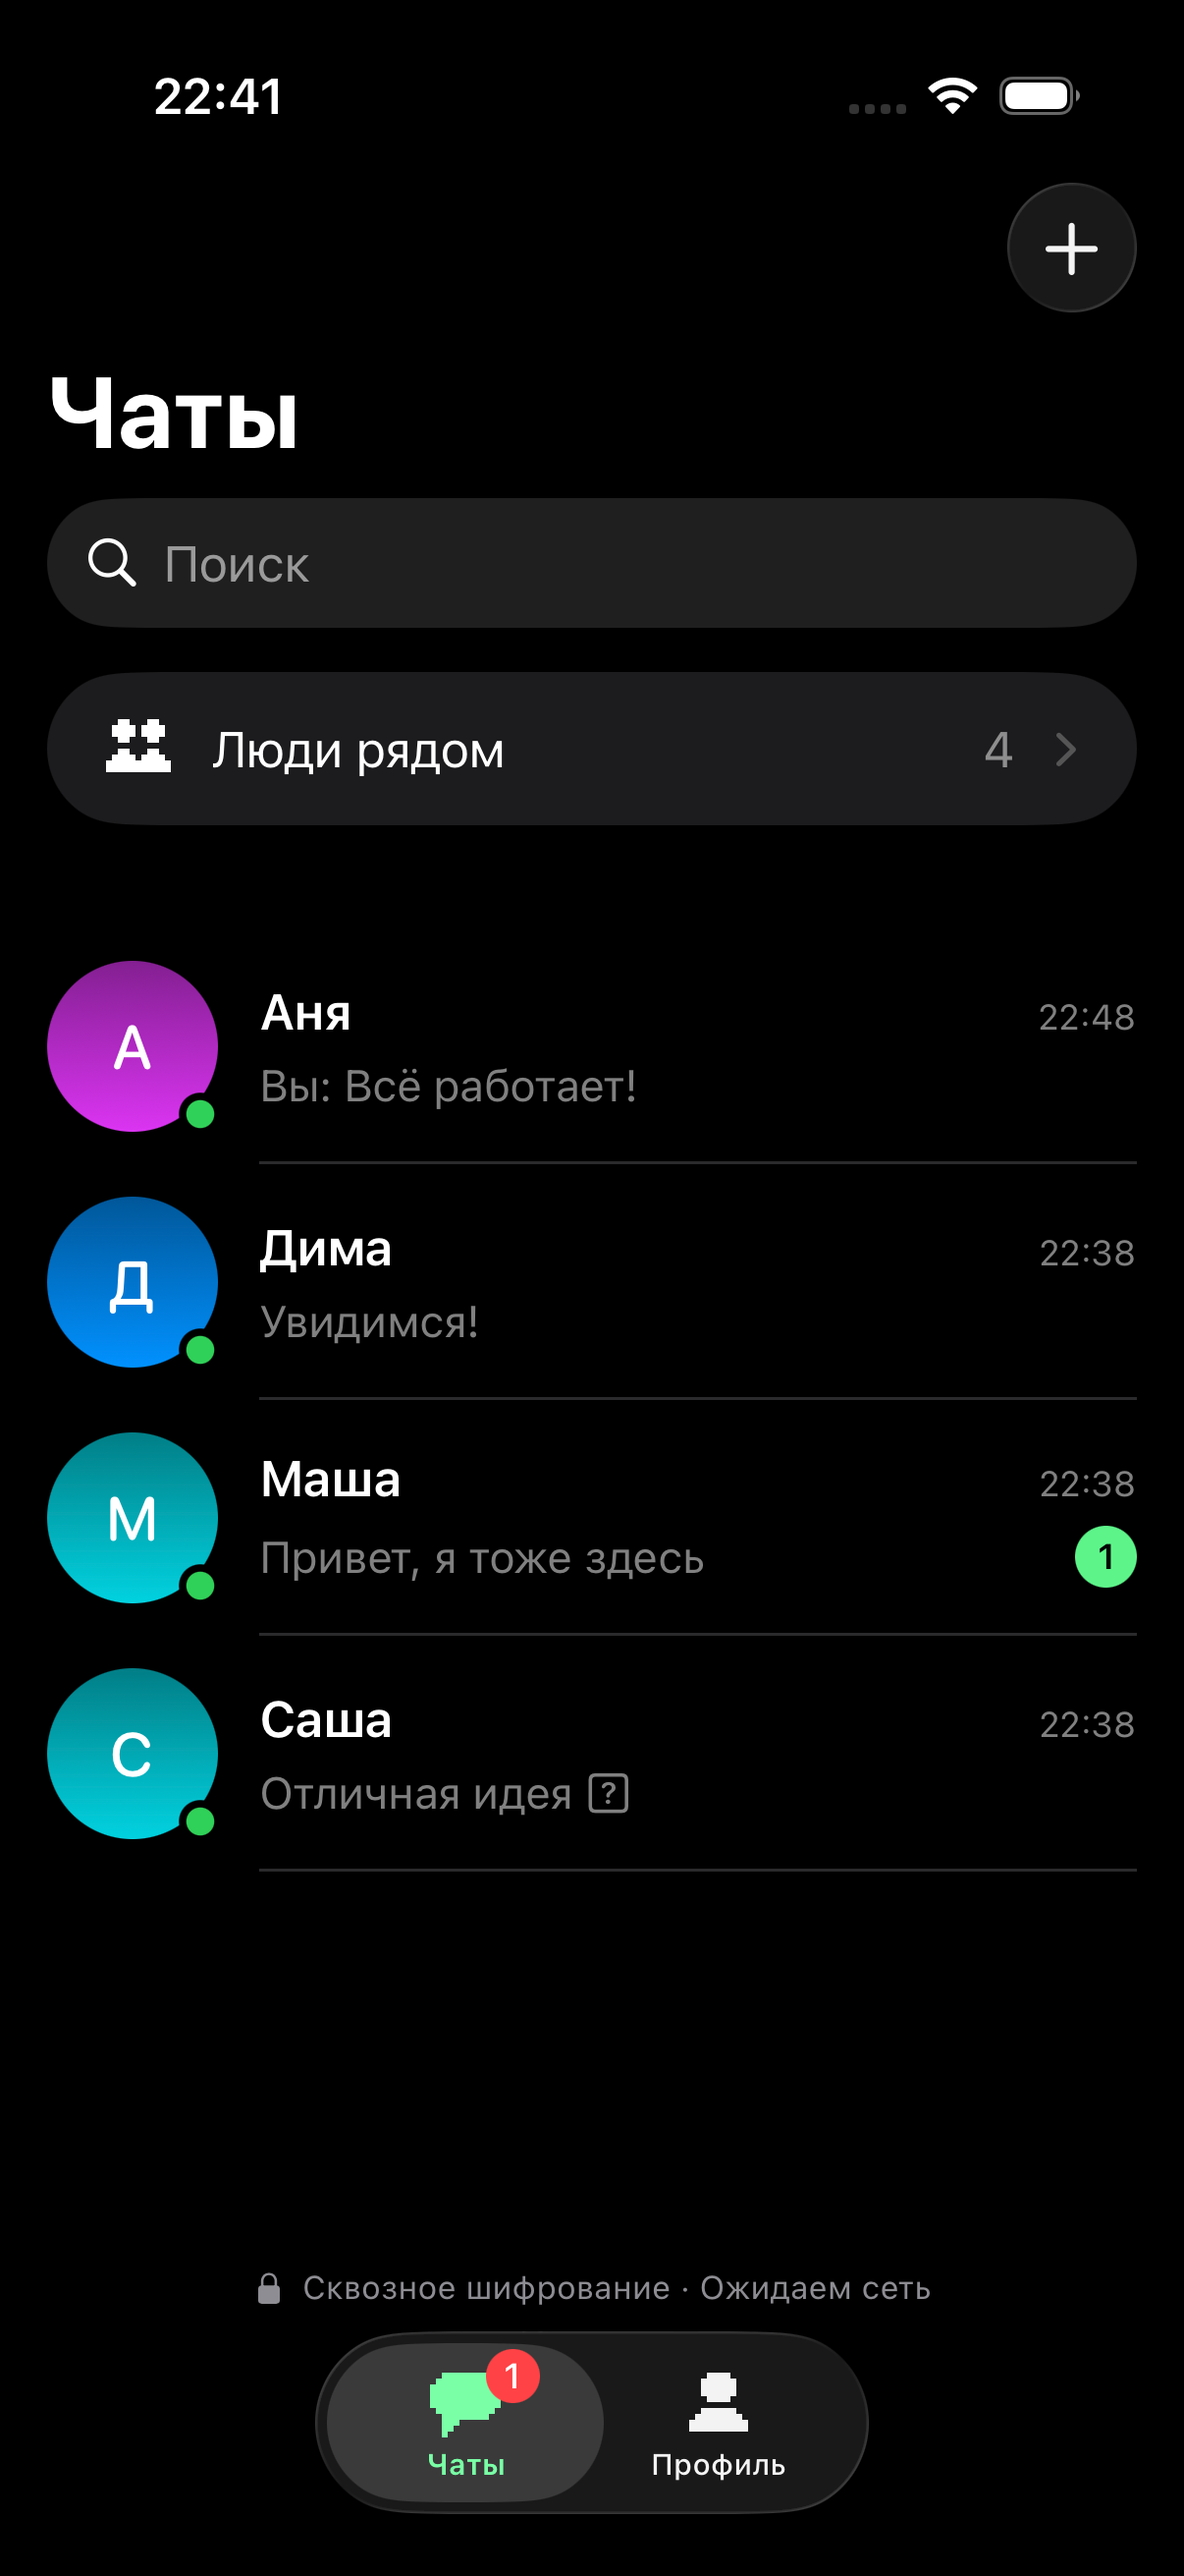
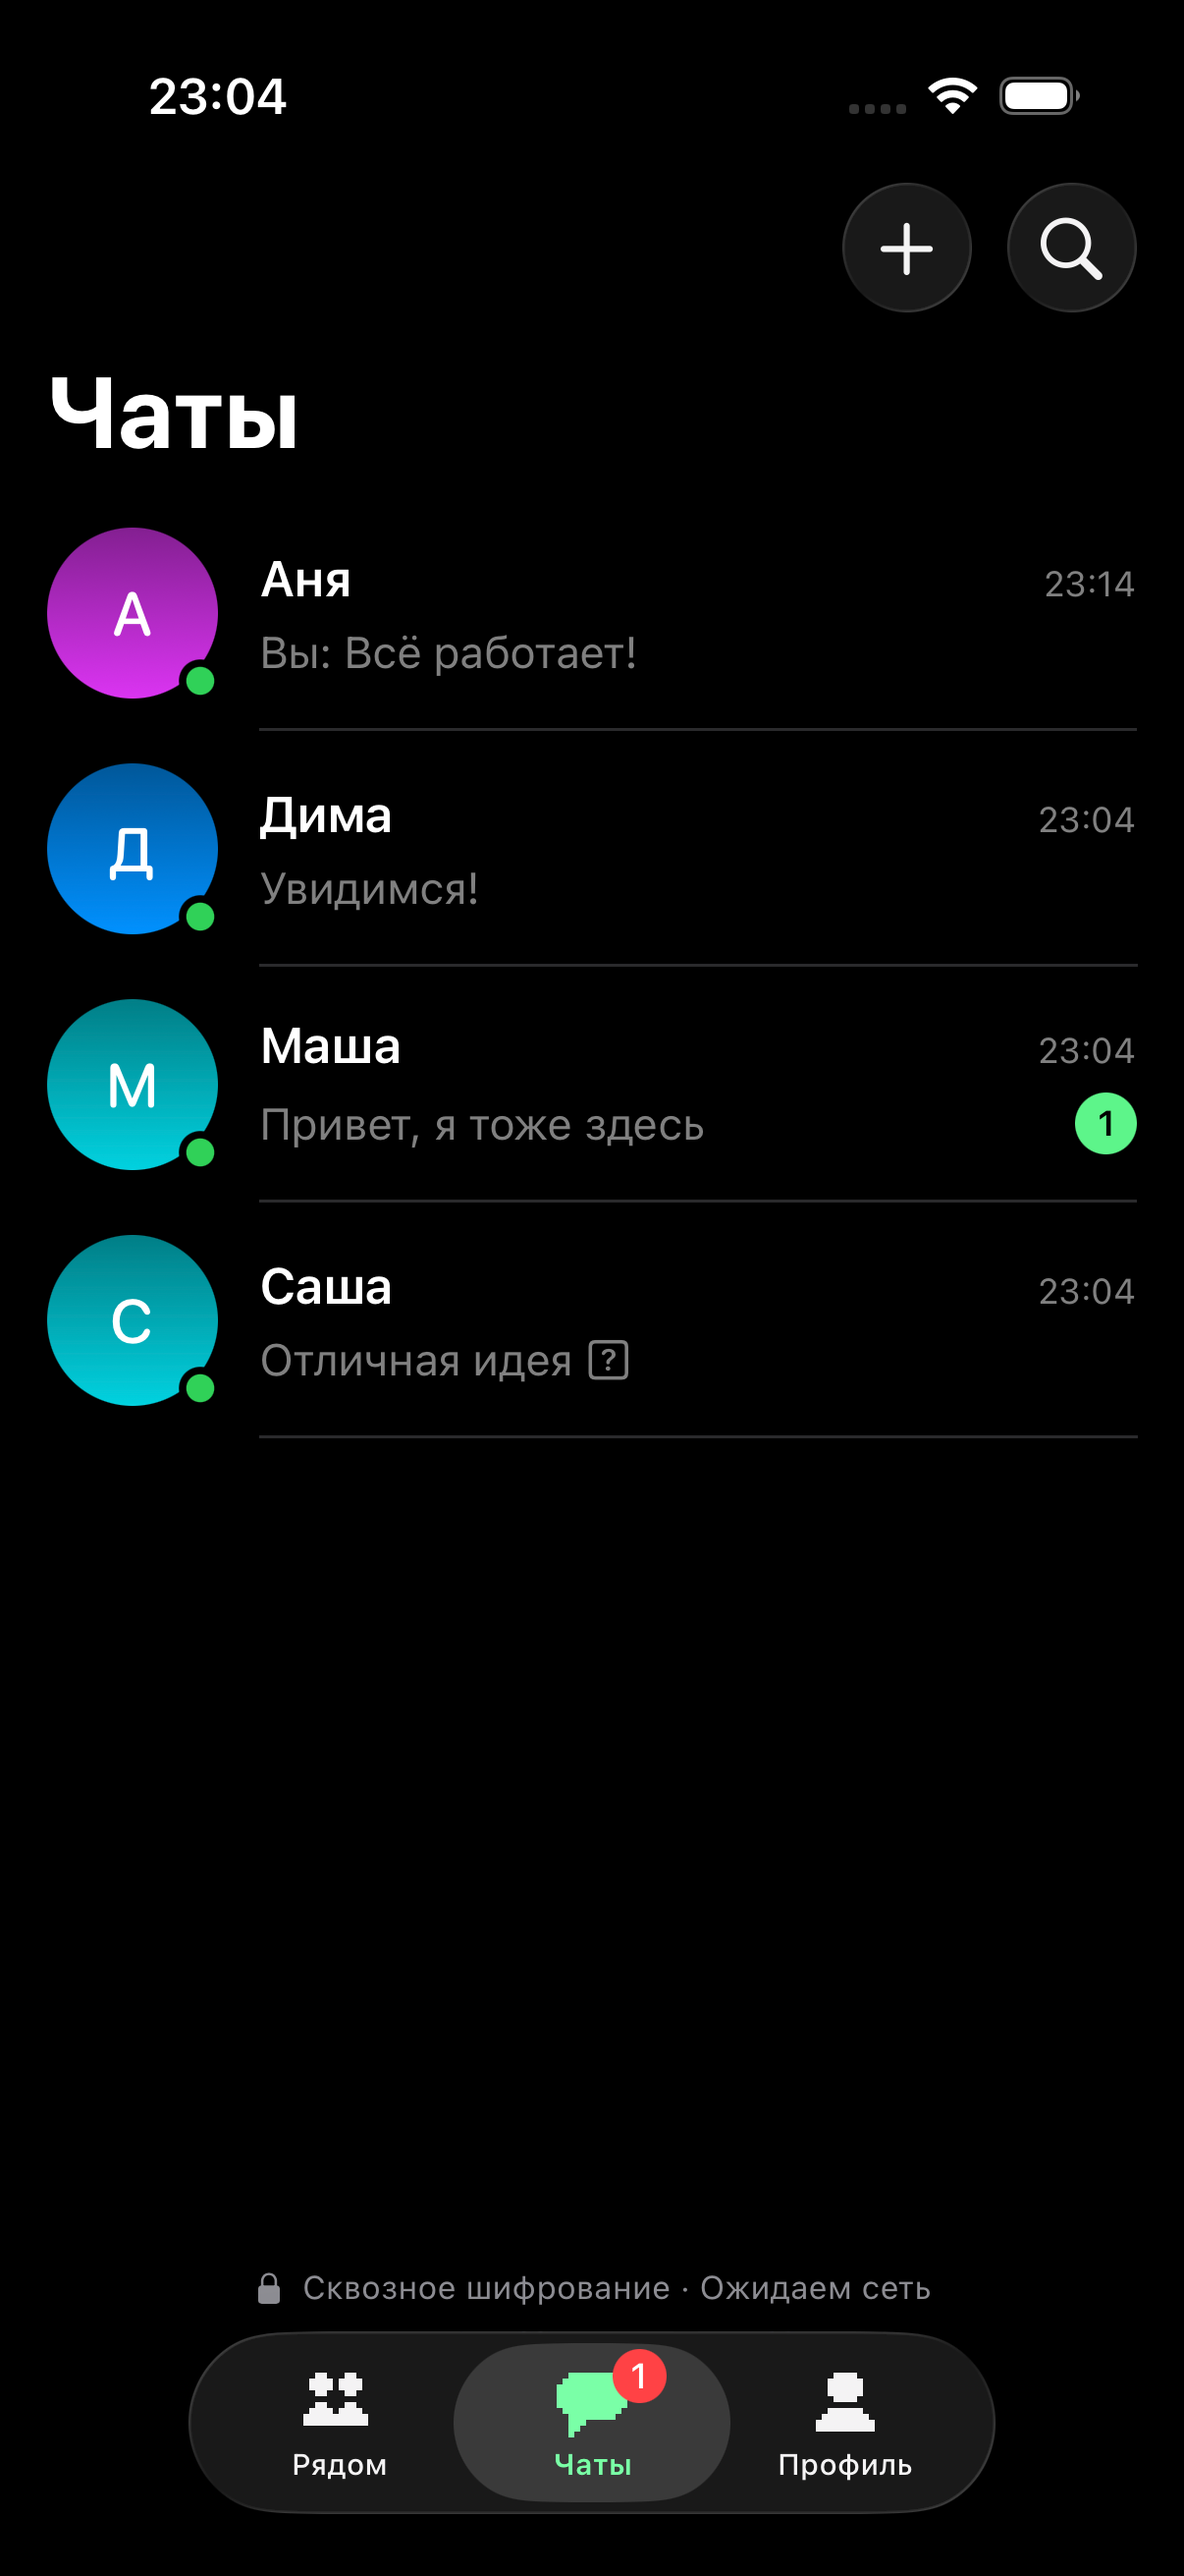
Restore nearby tab and minimize native chat search

diff --git a/ShumiOS/App/Views/Navigation/Content/MainContentView.swift b/ShumiOS/App/Views/Navigation/Content/MainContentView.swift
@@ -9,6 +9,14 @@ struct MainContentView: View {
     @State private var showContacts = false
     var body: some View {
         TabView(selection: $selectedTab) {
+            NavigationStack {
+                ShumPeopleScreen(runtime: chat) { peer in
+                    chatsPath.append(.conversation(peer))
+                    selectedTab = 1
+                }
+            }
+            .tabItem { Label("Рядом", image: "PixelPeople") }
+            .tag(0)
             NavigationStack(path: $chatsPath) {
                 SpotchatChatsUI(runtime: chat) { route in
                     if case .newChat = route { showContacts = true }
@@ -56,7 +64,7 @@ struct MainContentView: View {
         #if DEBUG && targetEnvironment(simulator)
         .onAppear {
             let arguments = ProcessInfo.processInfo.arguments
-            if arguments.contains("-ShumPreviewPeople") { chatsPath = [.nearby] }
+            if arguments.contains("-ShumPreviewPeople") { selectedTab = 0 }
             else if arguments.contains("-ShumPreviewProfile") { selectedTab = 2 }
             else if arguments.contains("-ShumPreviewChat"), let peer = chat.chatPeers.first {
                 chatsPath = [.conversation(peer)]
